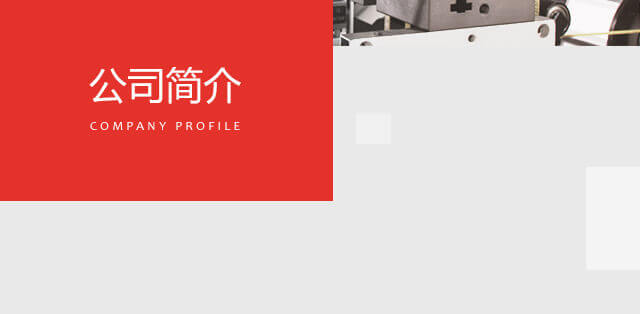
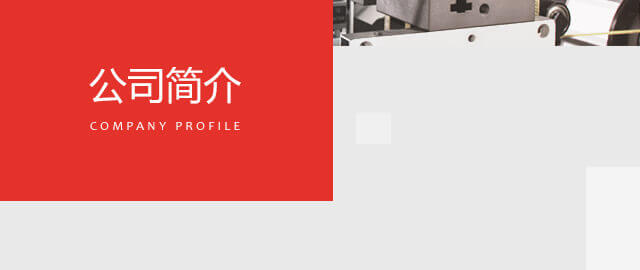
申克logo修改

diff --git a/wap/shenke/css/common.css b/wap/shenke/css/common.css
@@ -176,6 +176,17 @@ input[type="search"]::-webkit-search-cancel-button{
 .img-box img{ width:100%;height:auto; border:none; margin:0; padding:0; vertical-align:top;}
 
 /*首页*/
+.index-swiper .img-box{ position:relative;}
+.index-swiper .img-box .logo{
+	position: absolute;
+    right: 0px;
+    top: 0.55rem;
+    background: url(../images/index/logo.jpg) no-repeat;
+    background-size: auto 100%;
+    width: 2.7rem;
+    height: 1rem;
+}
+
 .index-menu-list{ position:relative;}
 .index-menu-list > .item{ 
 	width: 1.2rem;
@@ -367,6 +378,17 @@ white-space: nowrap; padding:0.1rem 0;}
 }
 
 /*公司简介*/
+.company-img{ position:relative;}
+.company-img .logo{
+	position: absolute;
+    right: 0;
+    top: 0.6rem;
+    background: url(../images/index/logo.jpg) no-repeat;
+    background-size: auto 100%;
+    width: 2rem;
+    height: 0.75rem;
+}
+
 .company-des{    
 	position: absolute;
     padding: 3.2rem 0.3rem 0 0.3rem;

diff --git a/wap/shenke/company.html b/wap/shenke/company.html
@@ -15,11 +15,12 @@
 <title>SCHENCK</title>
 </head>
 <body id="body" style="background:#ebebeb;">
-	<div class="img-box">
+	<div class="img-box company-img">
         <p><img src="images/company/img01.jpg" width="100%" /></p>
         <p><img src="images/company/img02.jpg" width="100%" /></p>
         <p><img src="images/company/img03.jpg" width="100%"/></p>
         <p><img src="images/company/img04.jpg" width="100%"/></p>
+        <div class="logo"></div>
     </div>
     <ul class="company-des">
    		<li>上海申克机械有限公司于1999年成立上海申克机械有限公司，开始专注于各类动平衡机的研发与生产，2008年公司引进德国最新材料技术——矿铸件，成立了动平衡机单元。</li>

diff --git a/wap/shenke/index.html b/wap/shenke/index.html
@@ -17,13 +17,14 @@
 <title>SCHENCK</title>
 </head>
 <body id="body">
-	<div class="swiper-container">
+	<div class="swiper-container index-swiper">
         <div class="swiper-wrapper">
             <div class="swiper-slide">
             	<div class="img-box">
                     <p><img src="images/index/img01.jpg" width="100%" /></p>
                     <p><img src="images/index/img02.jpg" width="100%" /></p>
                     <p><img src="images/index/img03.jpg" width="100%" /></p>
+                    <div class="logo"></div>
                 </div>
             </div>
         </div>
